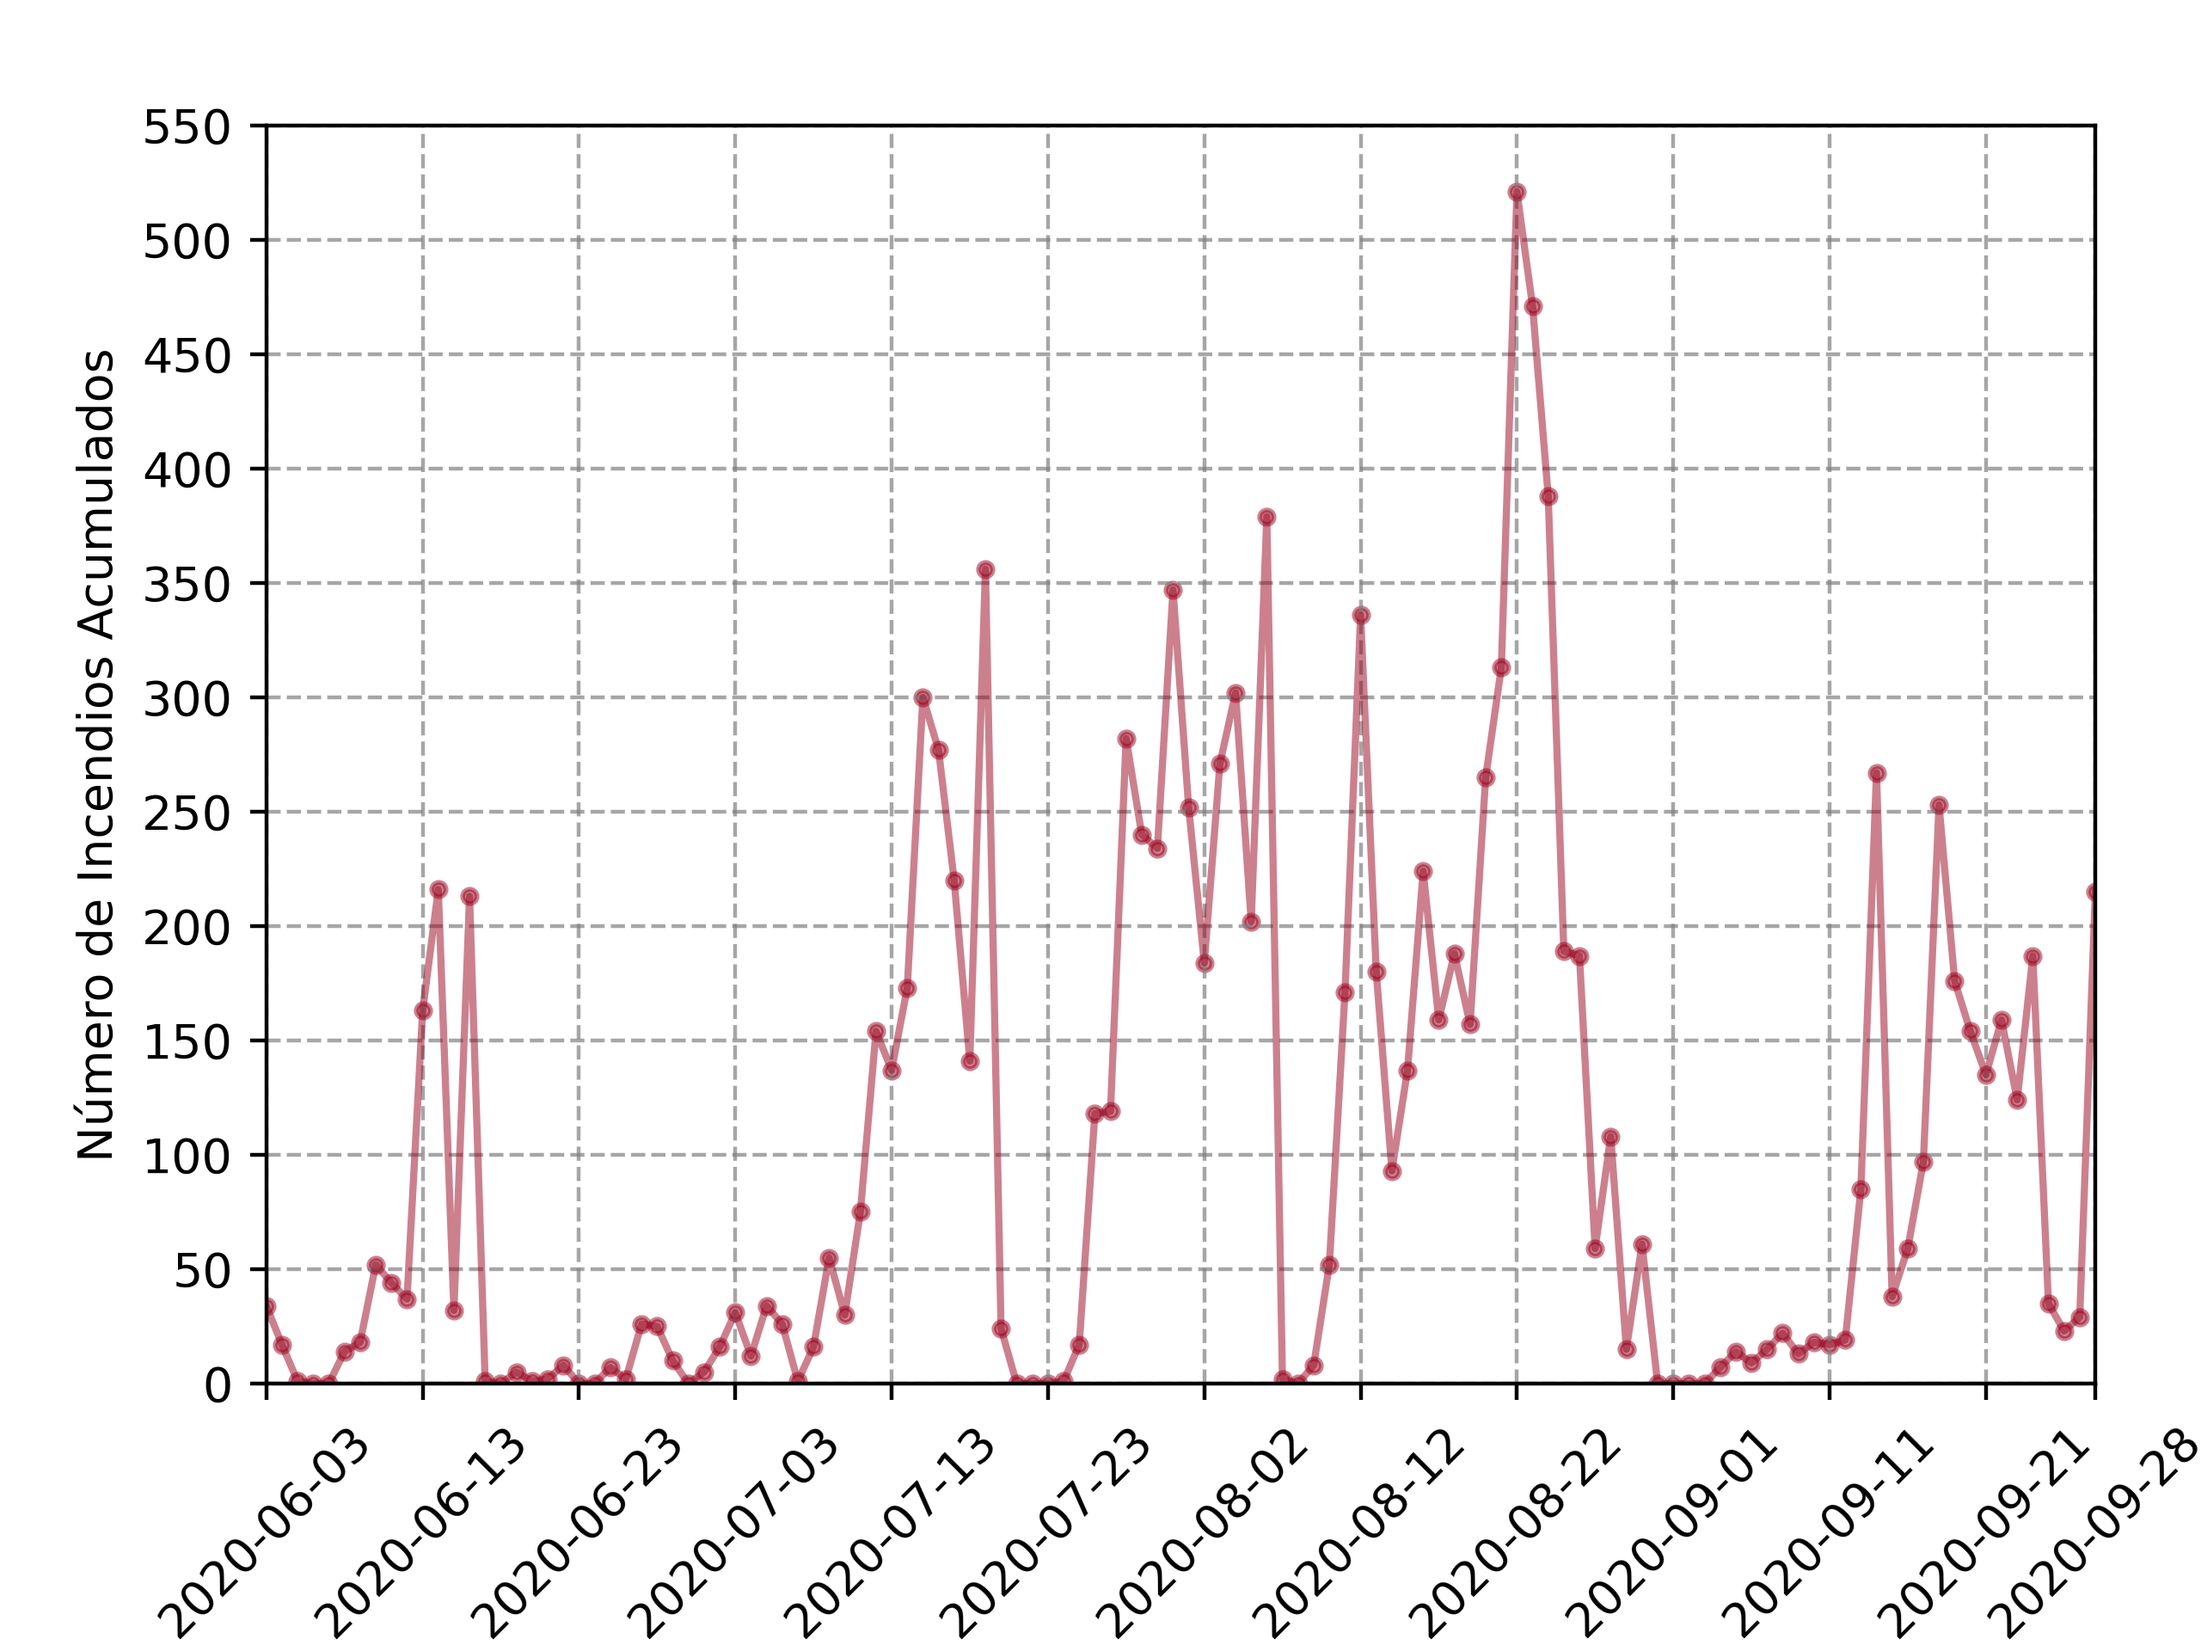
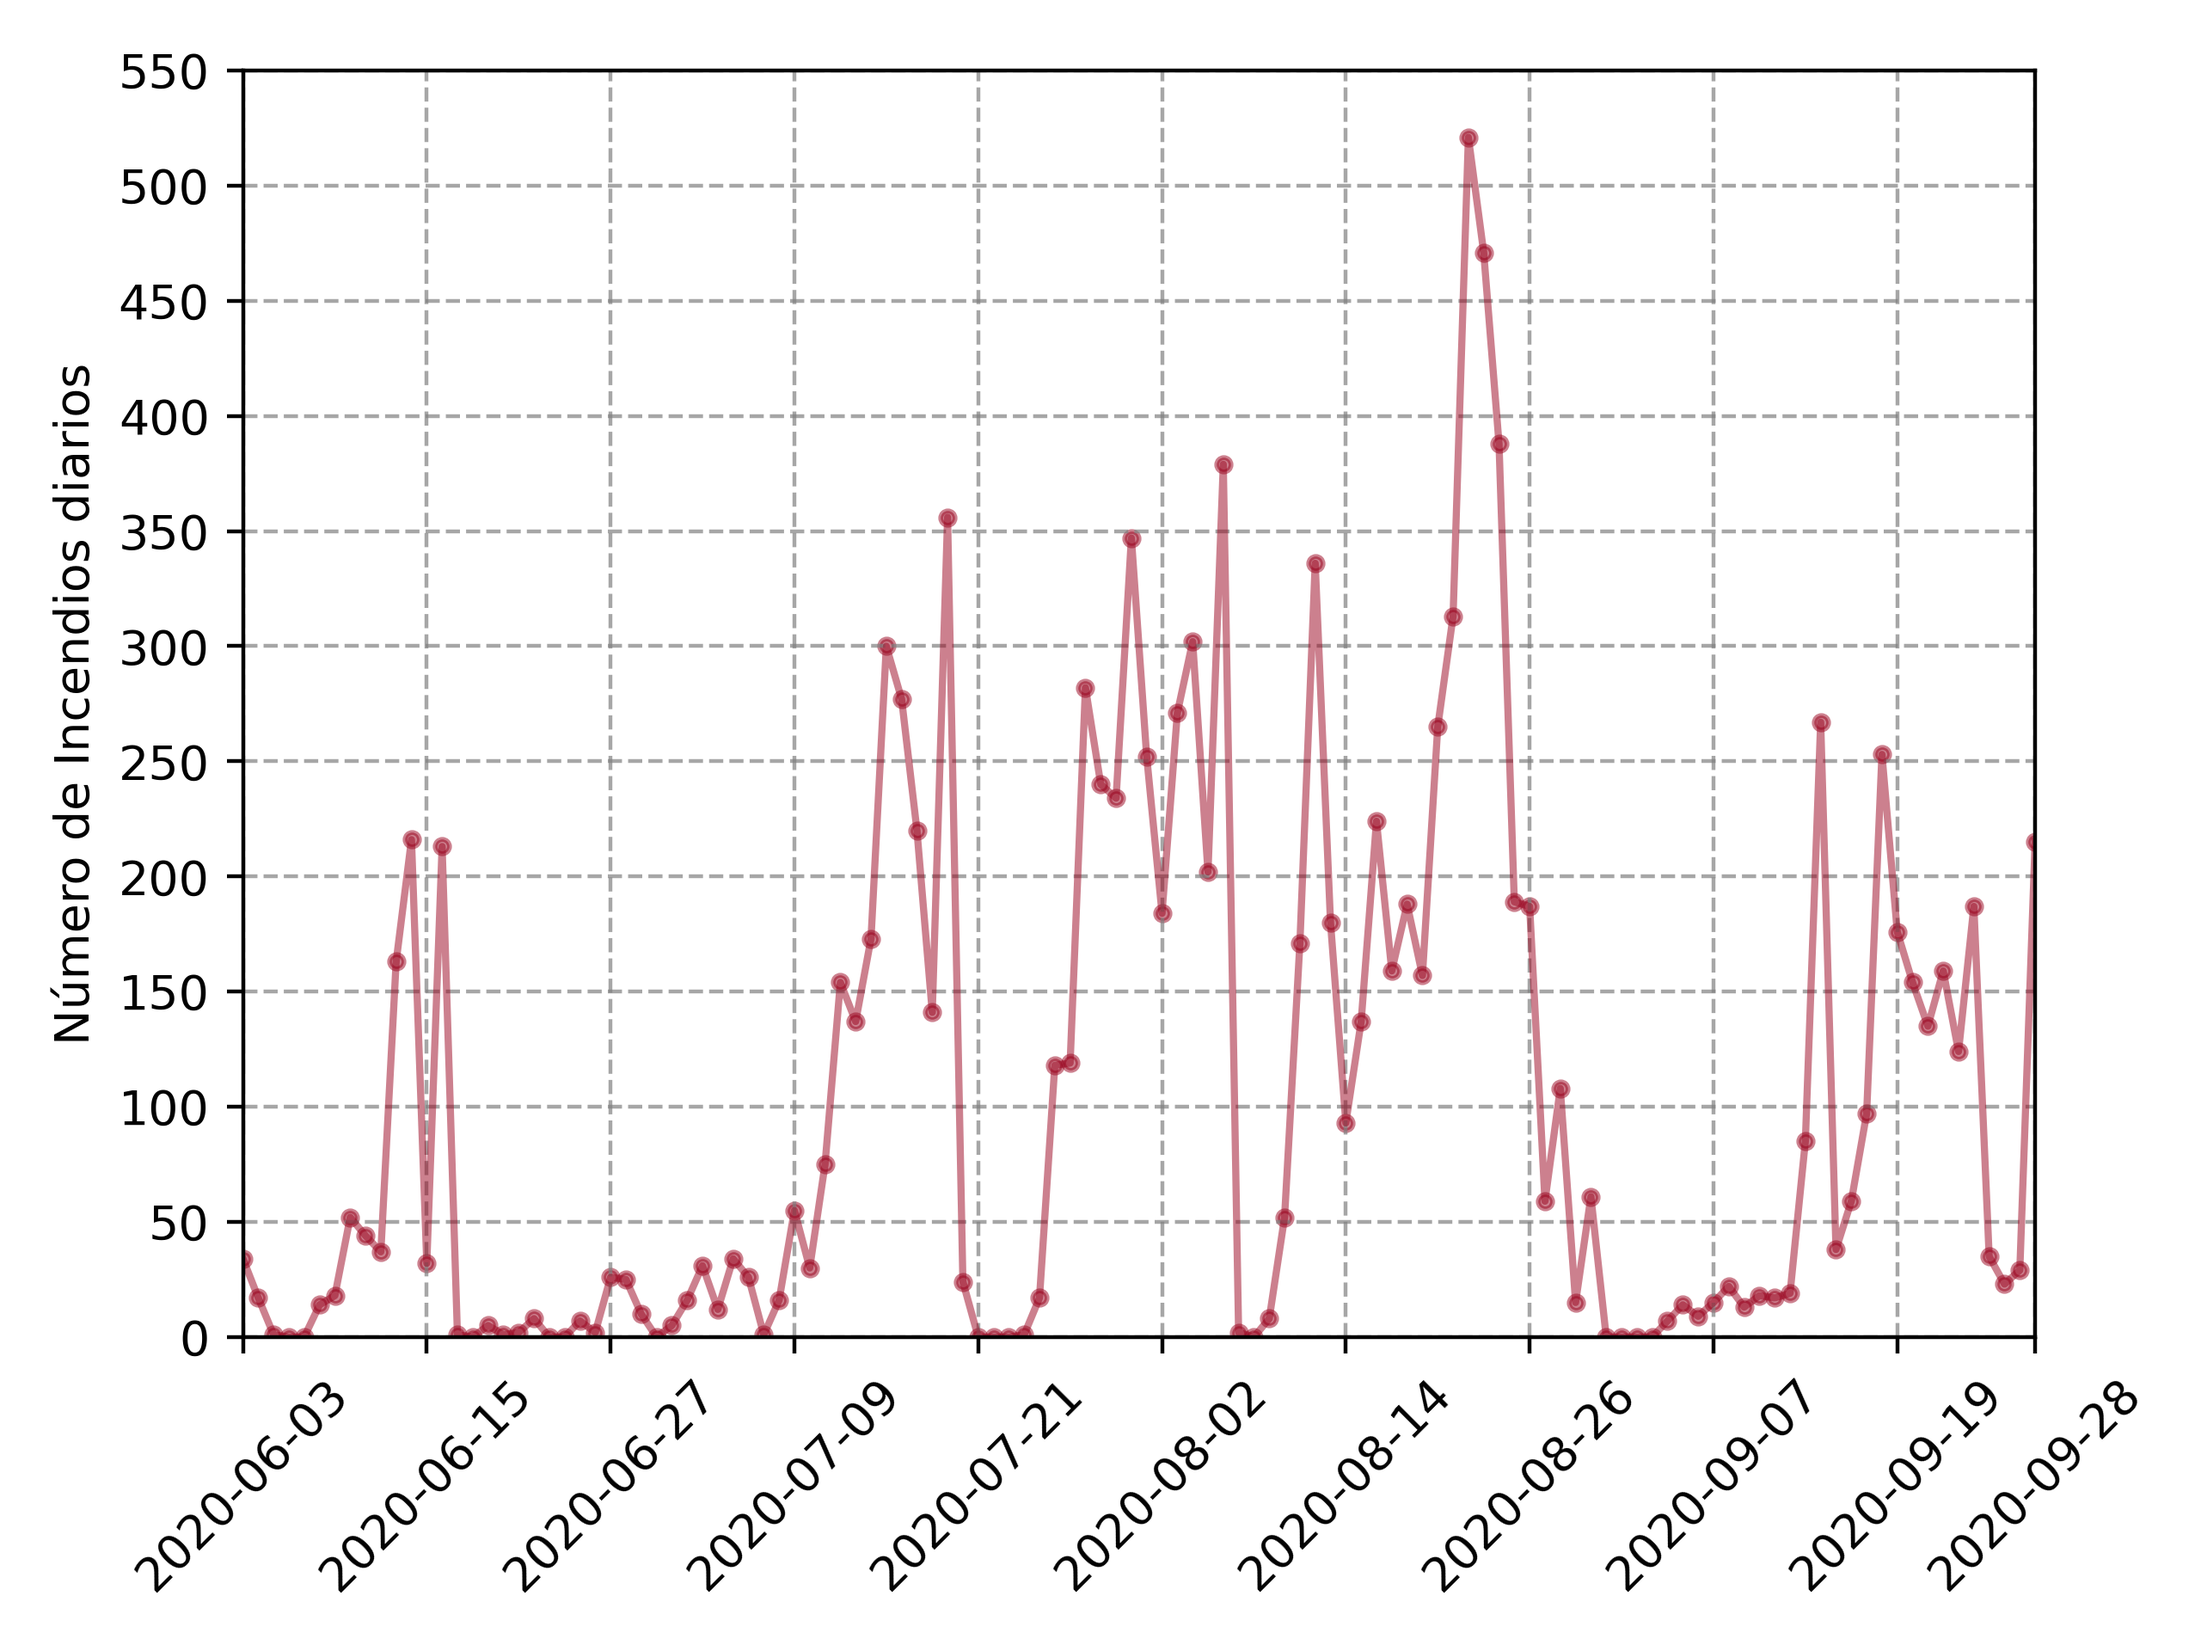
Change title

diff --git a/Scripts/Graphics_Fire_Day.py b/Scripts/Graphics_Fire_Day.py
@@ -30,10 +30,10 @@ def format_data(data=pd.DataFrame()):
 
 
 parameters = {
-    "file data": "NI.csv",
+    "file data": "NIA.csv",
     "graphics file": "Fire_Per_Day.png",
     "City name": "Parana_2020",
-    "Days separation": 10,
+    "Days separation": 12,
     "Y limit": 550,
     "Delta y": 50,
 }
@@ -65,7 +65,7 @@ plt.xlim(dates[0],
 plt.ylim(0,
          parameters["Y limit"])
 # Etiqueta en el eje y
-plt.ylabel("Número de Incendios Acumulados")
+plt.ylabel("Número de Incendios diarios")
 # Cambio en las etiquetas de los ejes x y y
 plt.xticks(dates,
            rotation=45)
@@ -76,6 +76,7 @@ plt.yticks(np.arange(0,
 plt.grid(ls="--",
          color="grey",
          alpha=0.7)
+plt.tight_layout()
 # Guardado de la grafica
 plt.savefig("{}{}".format(city.parameters["path graphics"],
                           parameters["graphics file"]),
